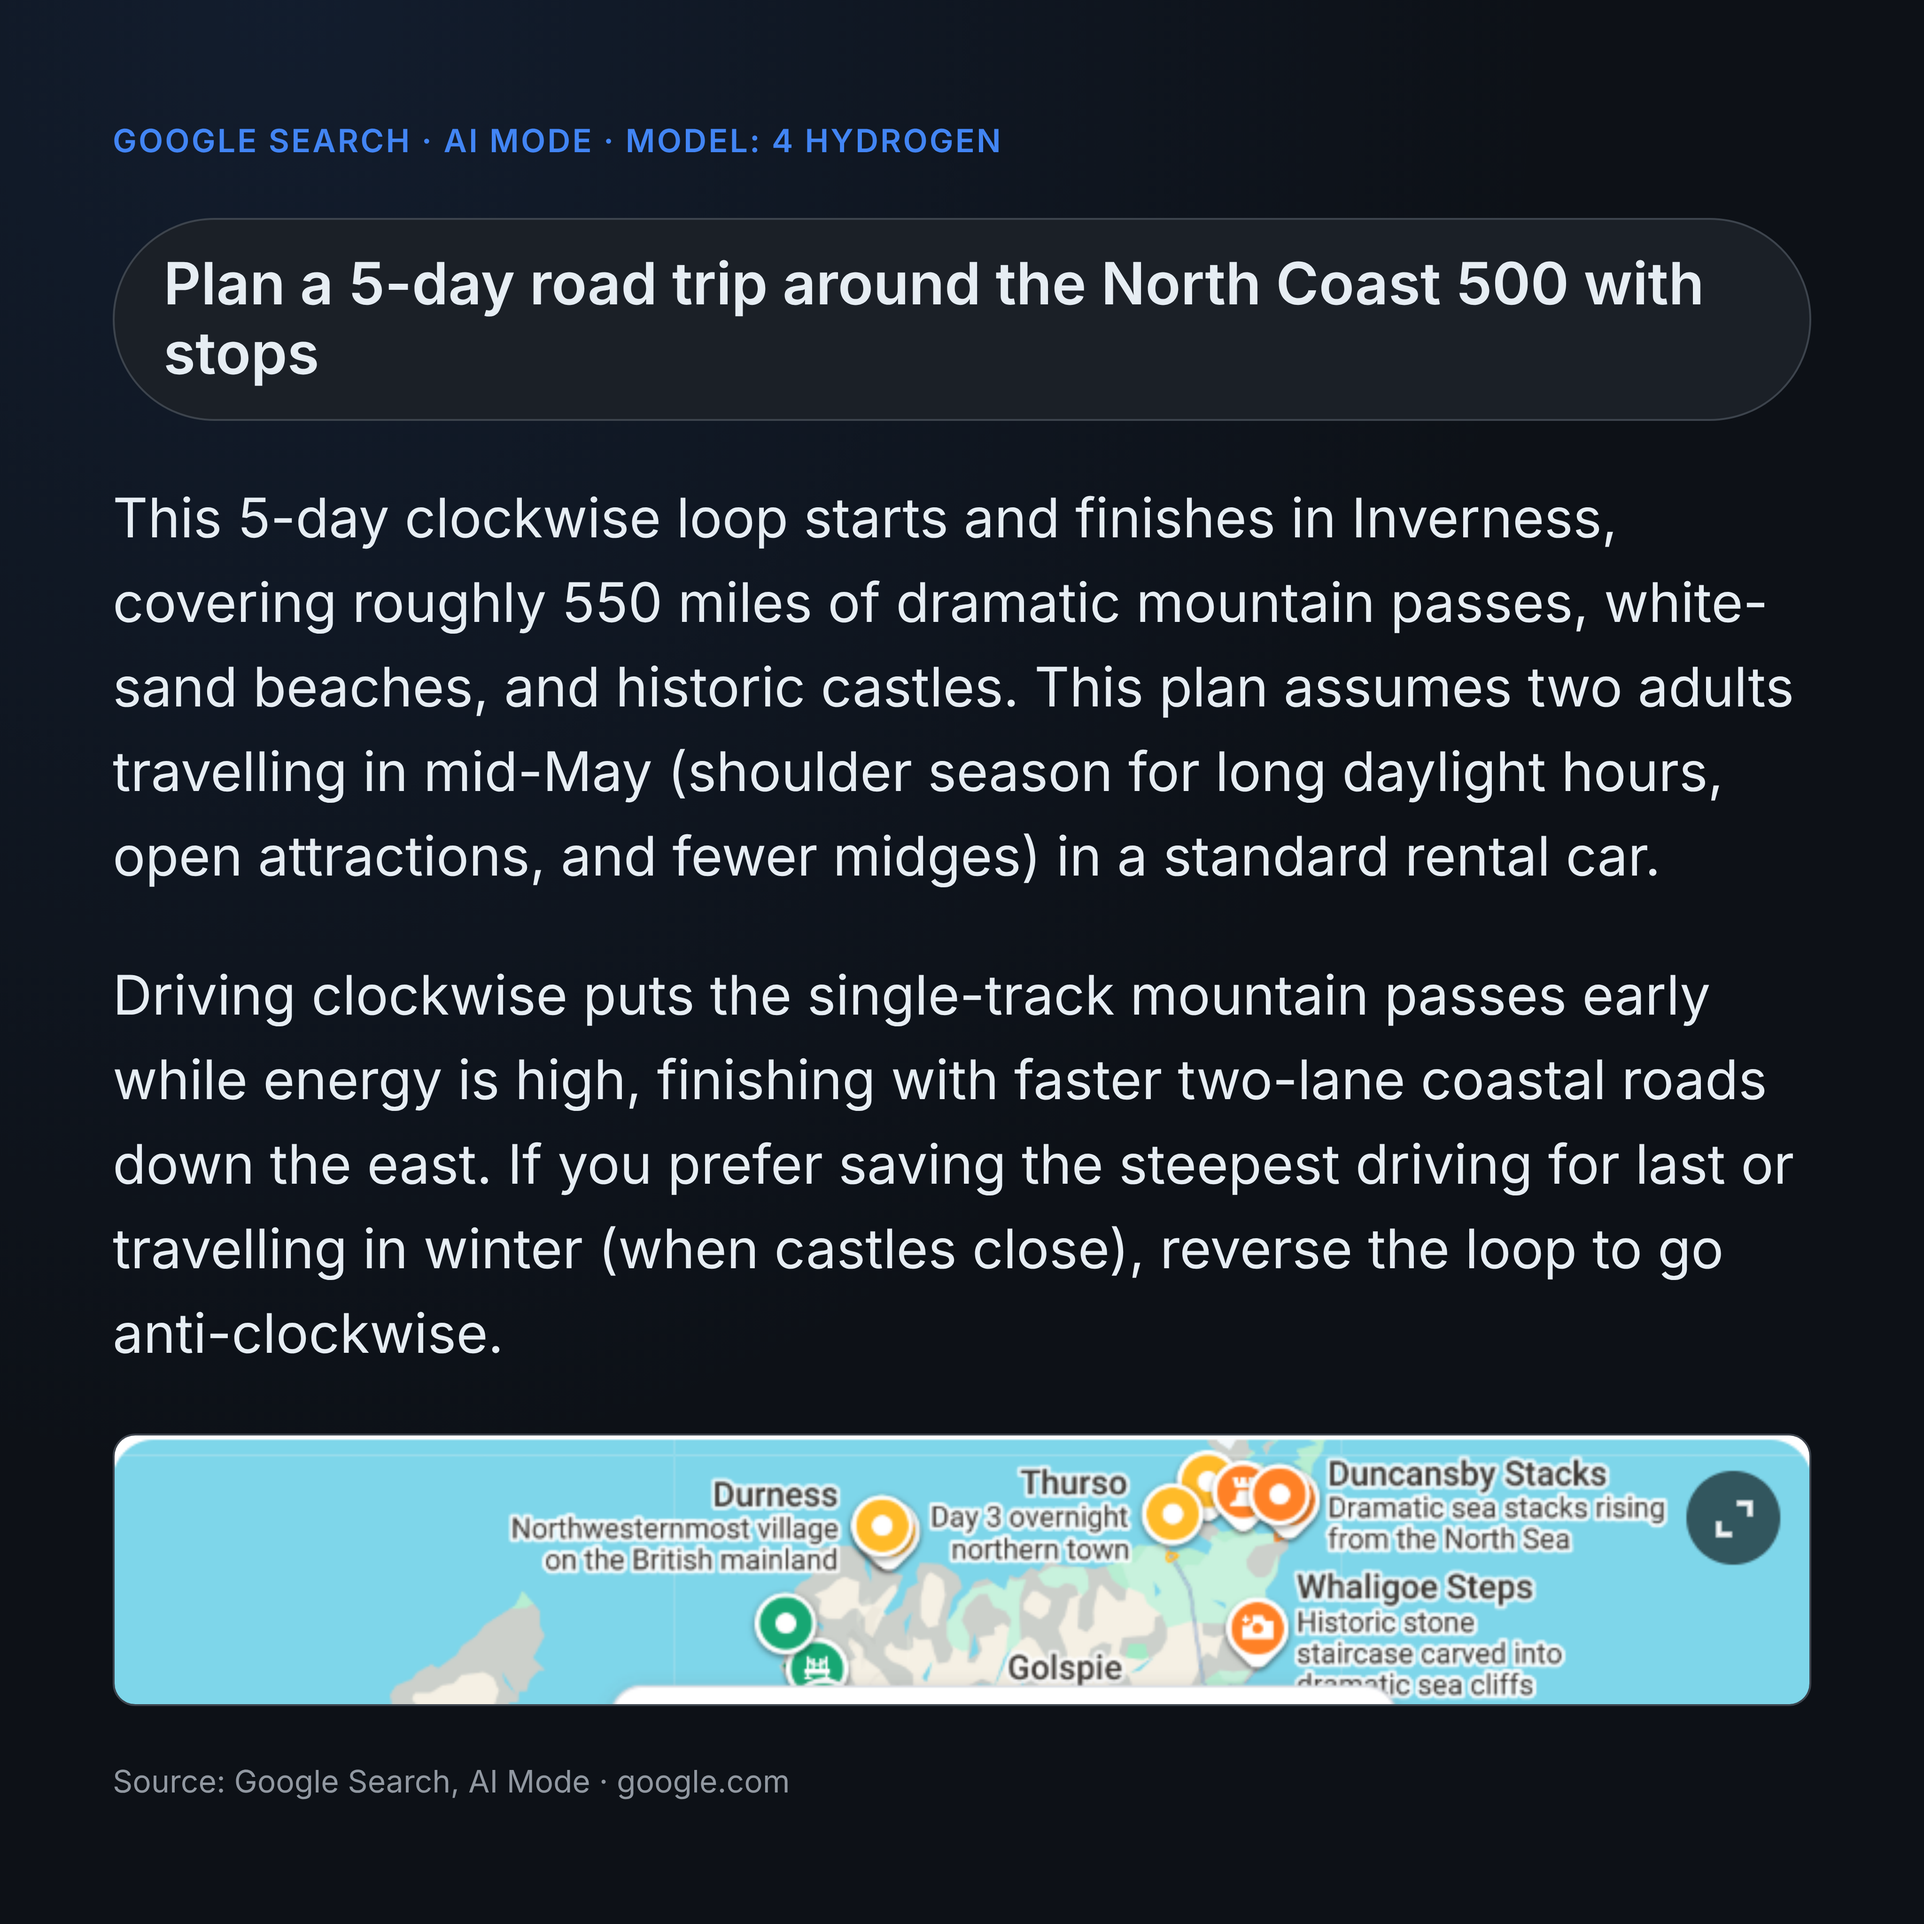
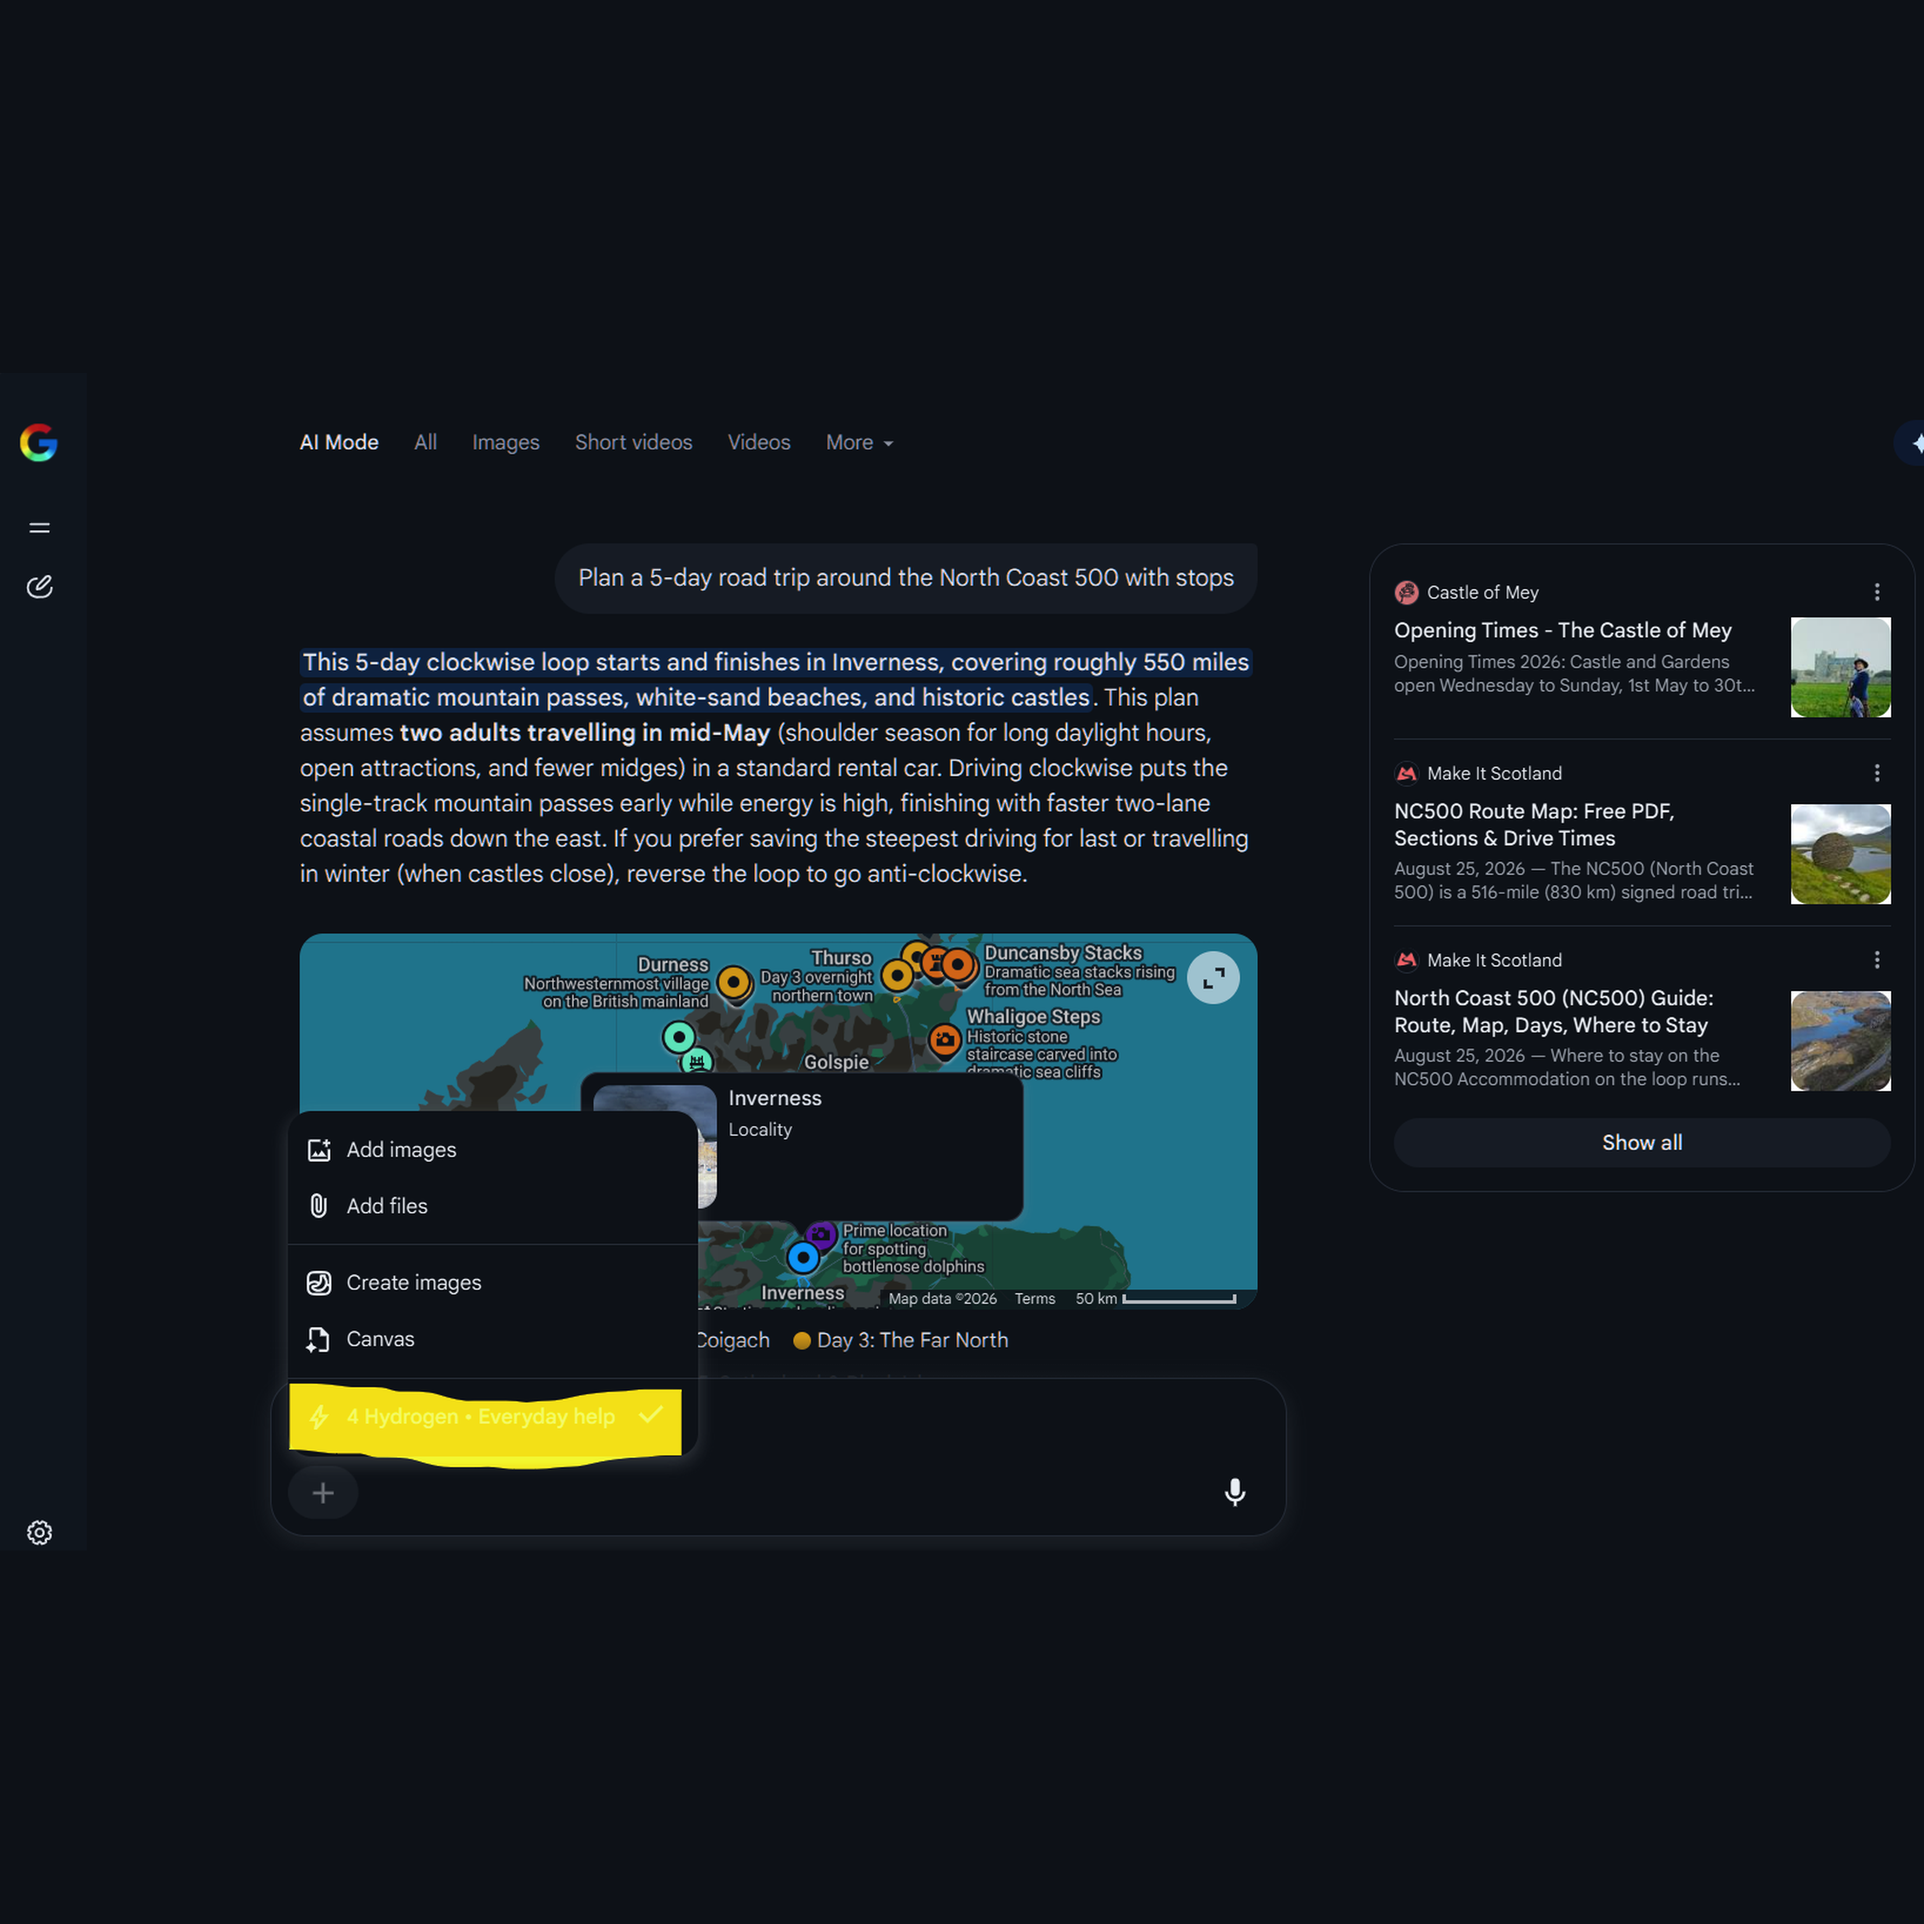
Return screenshots unchanged in dark; add dark_screenshot.py and rule to x-image skill
Claude-Session: https://claude.ai/code/session_01VFUXkJncYpvKxqbX3SscZu

diff --git a/.claude/skills/x-image/dark_screenshot.py b/.claude/skills/x-image/dark_screenshot.py
@@ -1,0 +1,42 @@
+"""Return the SAME screenshot, dark, on a 4096x4096 square for X.
+
+Usage: python3 dark_screenshot.py <in.png> <out.png> [--crop L,T,R,B] [--keep L,T,R,B ...]
+
+Nothing is rewritten or re-laid-out. The screenshot is colour-flipped to dark
+(lightness inverted, hues kept), scaled to the full 4096 width and centred on a
+matching dark square. --crop trims browser chrome (e.g. the URL bar). --keep marks
+photo regions (in original pixel coordinates) to leave un-flipped.
+"""
+import os, sys
+import numpy as np
+from PIL import Image
+
+args = sys.argv[1:]
+crop, keeps = None, []
+while '--crop' in args:
+    i = args.index('--crop'); crop = tuple(map(int, args[i + 1].split(','))); del args[i:i + 2]
+while '--keep' in args:
+    i = args.index('--keep'); keeps.append(tuple(map(int, args[i + 1].split(',')))); del args[i:i + 2]
+src, out = args
+im = Image.open(src).convert('RGB')
+a = np.asarray(im).astype(np.int16)
+mx, mn = a.max(axis=2, keepdims=True), a.min(axis=2, keepdims=True)
+d = np.clip(a + 255 - mx - mn, 0, 255)          # invert lightness, keep hue
+d = (d * (230 / 255) + np.array([13, 17, 23])).clip(0, 255).astype(np.uint8)  # lift black to #0d1117
+dark = Image.fromarray(d)
+for box in keeps:
+    dark.paste(im.crop(box), box[:2])
+if crop:
+    dark = dark.crop(crop)
+S = 4096
+w, h = dark.size
+scale = min(S / w, S / h)
+big = dark.resize((round(w * scale), round(h * scale)), Image.LANCZOS)
+canvas = Image.new('RGB', (S, S), (13, 17, 23))
+canvas.paste(big, ((S - big.width) // 2, (S - big.height) // 2))
+canvas.save(out, optimize=True)
+mb = os.path.getsize(out) / 1e6
+if mb > 5:
+    out = out.rsplit('.', 1)[0] + '.jpg'
+    canvas.save(out, quality=92, optimize=True, subsampling=0); mb = os.path.getsize(out) / 1e6
+print(f'saved {out} (4096x4096, {mb:.1f} MB), screenshot fills {big.width}x{big.height}')

diff --git a/.claude/skills/x-image/SKILL.md b/.claude/skills/x-image/SKILL.md
@@ -22,6 +22,24 @@ Both are **1:1**, and that's what makes them fill the column: X shows a 1200 squ
 video and a 4096 square image at the same size. When the user asks for a video or GIF,
 also offer the 4096x4096 still card of the same content.
 
+## A screenshot the user sends: give the SAME image back, dark and square
+
+When the user sends a screenshot (an app, a search result, a chat, a dashboard) and asks
+for an X image, **do not rebuild it as a card.** They want their screenshot, unchanged in
+content and layout, on a dark background at 4096x4096. Never add a headline, chips,
+captions or first-person lines, and never drop or re-crop parts of the page.
+
+`python3 <skill dir>/dark_screenshot.py <in.png> "<working dir>/<name>-x.png" --crop L,T,R,B --keep L,T,R,B`
+
+- It flips the screenshot to dark (lightness inverted, colours and highlights kept),
+  scales it to the full 4096 width and centres it on a matching dark square.
+- `--crop` only to remove the browser's URL/tab bar (URLs can hold session tokens).
+- `--keep` for each photo thumbnail (original pixel coordinates) so photos aren't flipped.
+- Read the result and compare it with the original before sending: every element the
+  user captured (menus, highlights, side panels) must still be there.
+
+Build a card (below) only for a repo, paper or news article, or when the user asks for one.
+
 ## Why square, not tall
 
 On desktop, X caps an image's displayed height at about the width of the post
